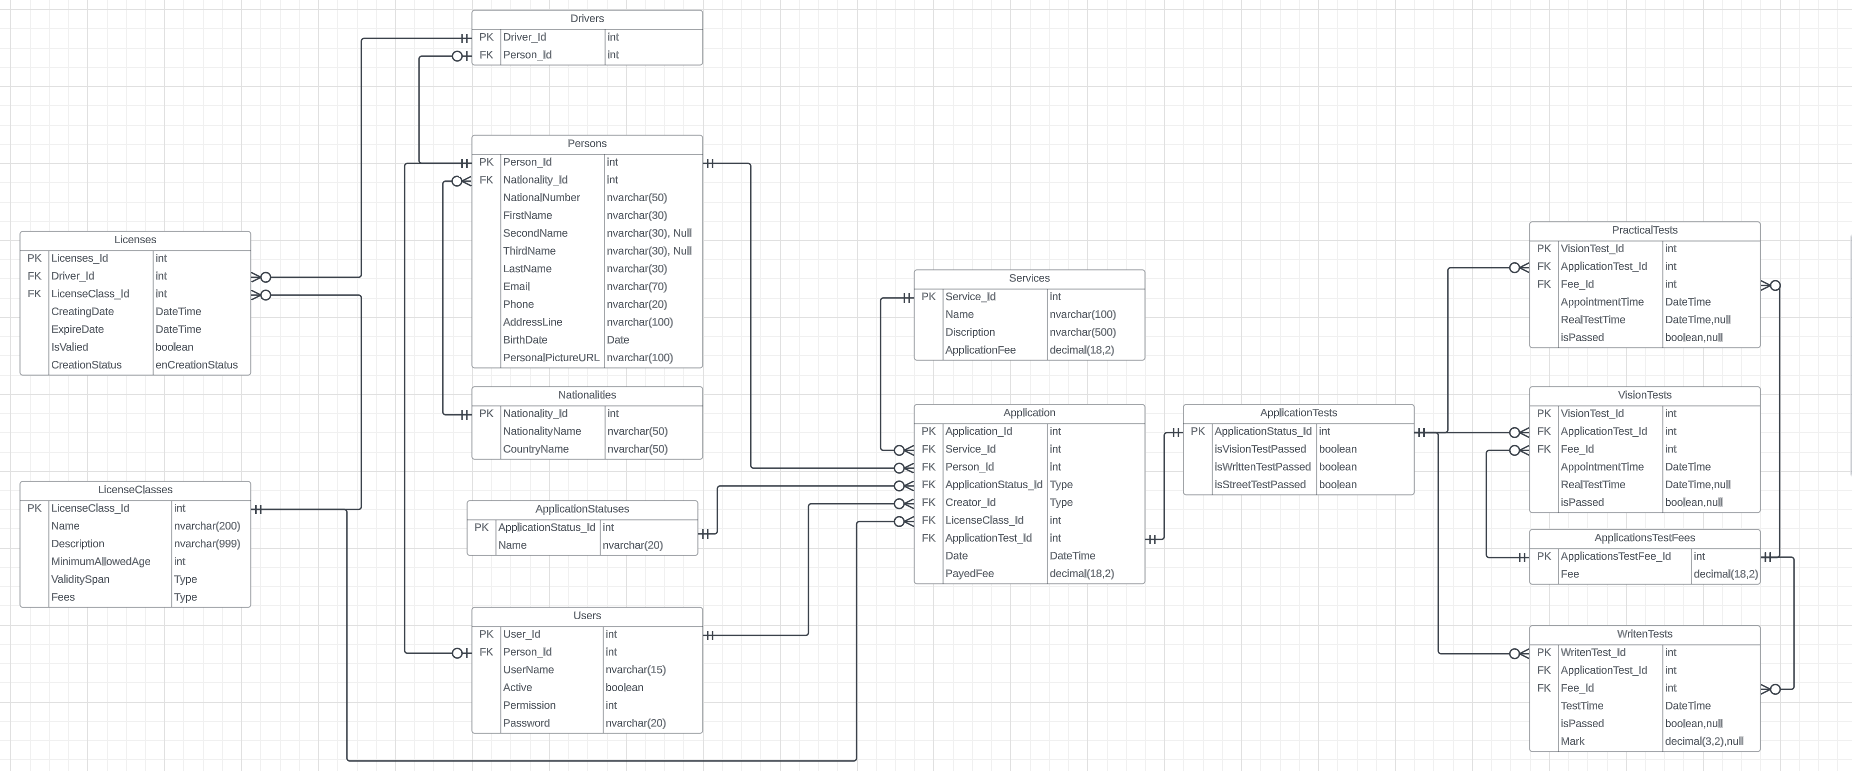
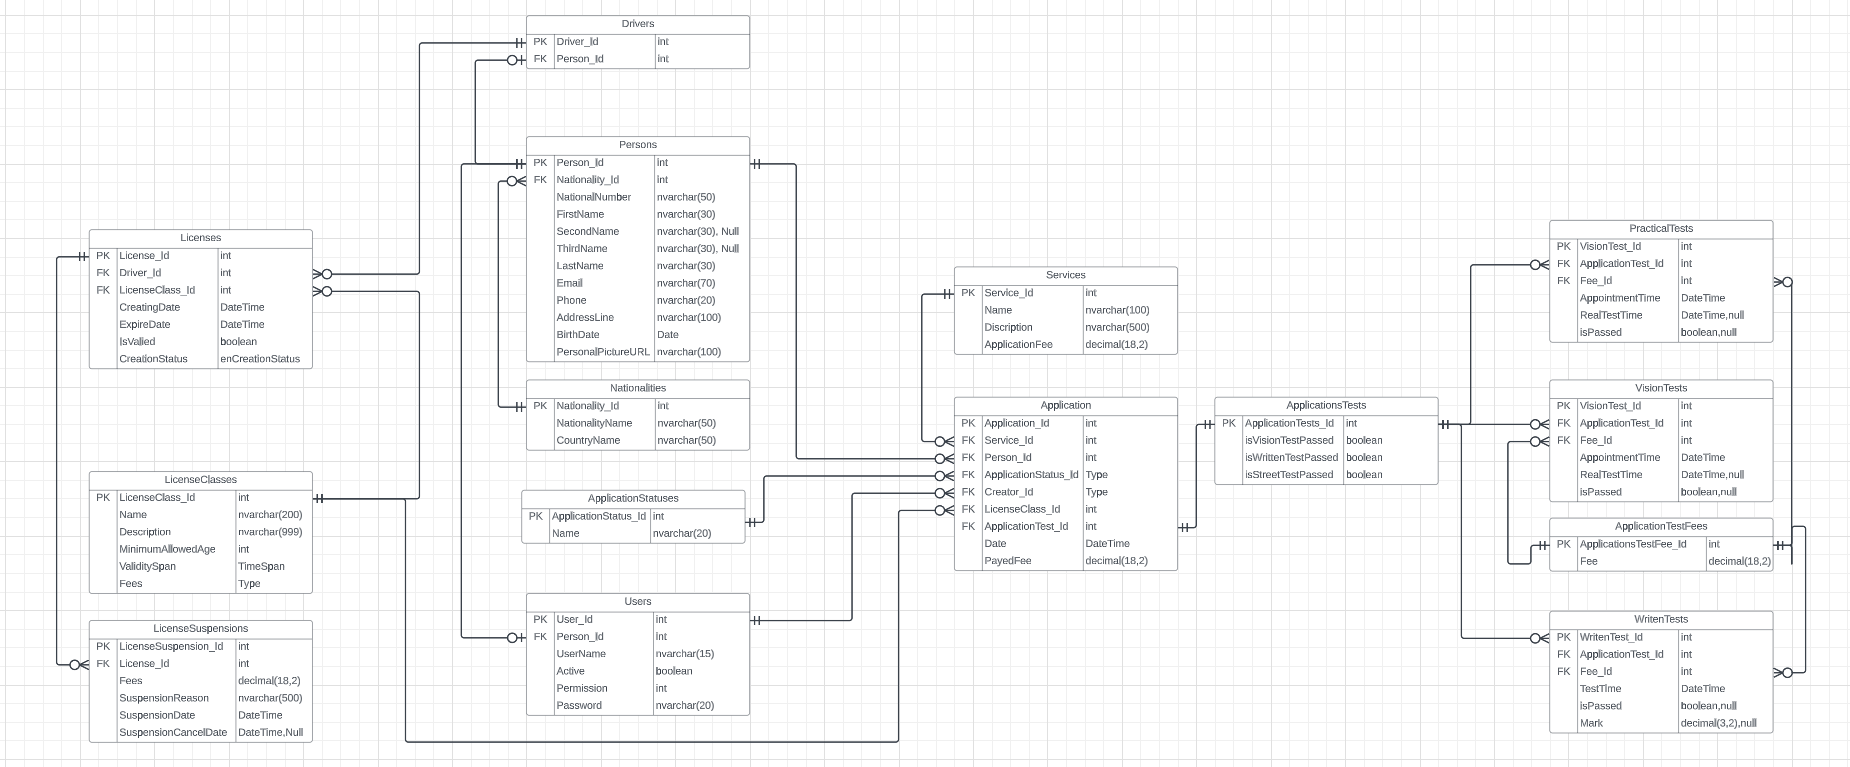
Create LicenseSuspension class and add it to the database

diff --git a/DVLD.DataAccess/Migrations/20231123114250_Add_LicenseSuspension_Table.cs b/DVLD.DataAccess/Migrations/20231123114250_Add_LicenseSuspension_Table.cs
@@ -1,0 +1,50 @@
+using System;
+using Microsoft.EntityFrameworkCore.Migrations;
+
+#nullable disable
+
+namespace DVLD.DataAccess.Migrations
+{
+    /// <inheritdoc />
+    public partial class Add_LicenseSuspension_Table : Migration
+    {
+        /// <inheritdoc />
+        protected override void Up(MigrationBuilder migrationBuilder)
+        {
+            migrationBuilder.CreateTable(
+                name: "LicenseSuspensions",
+                columns: table => new
+                {
+                    LicenseSuspension_Id = table.Column<int>(type: "int", nullable: false)
+                        .Annotation("SqlServer:Identity", "1, 1"),
+                    License_Id = table.Column<int>(type: "int", nullable: false),
+                    Fees = table.Column<decimal>(type: "decimal(18,2)", nullable: false),
+                    SuspensionReason = table.Column<string>(type: "nvarchar(500)", nullable: false),
+                    SuspenstionDate = table.Column<DateTime>(type: "datetime2", nullable: false),
+                    SuspenstionCancelDate = table.Column<DateTime>(type: "datetime2", nullable: true)
+                },
+                constraints: table =>
+                {
+                    table.PrimaryKey("PK_LicenseSuspensions", x => x.LicenseSuspension_Id);
+                    table.ForeignKey(
+                        name: "FK_LicenseSuspensions_Licenses_License_Id",
+                        column: x => x.License_Id,
+                        principalTable: "Licenses",
+                        principalColumn: "License_Id",
+                        onDelete: ReferentialAction.Cascade);
+                });
+
+            migrationBuilder.CreateIndex(
+                name: "IX_LicenseSuspensions_License_Id",
+                table: "LicenseSuspensions",
+                column: "License_Id");
+        }
+
+        /// <inheritdoc />
+        protected override void Down(MigrationBuilder migrationBuilder)
+        {
+            migrationBuilder.DropTable(
+                name: "LicenseSuspensions");
+        }
+    }
+}

diff --git a/DVLD.DataAccess/EntityFramworkDataLayer/Entities/License/LicenseSuspension.cs b/DVLD.DataAccess/EntityFramworkDataLayer/Entities/License/LicenseSuspension.cs
@@ -1,0 +1,35 @@
+using System;
+using System.Collections.Generic;
+using System.ComponentModel.DataAnnotations;
+using System.ComponentModel.DataAnnotations.Schema;
+using System.Linq;
+using System.Text;
+using System.Threading.Tasks;
+
+namespace DVLD.DataAccess.EntityFramworkDataLayer.Entities.License
+{
+    public class LicenseSuspension
+    {
+
+        [Key]
+        [Column(nameof(LicenseSuspension_Id))]
+        public int LicenseSuspension_Id { get; set; }
+
+        [ForeignKey("License")]
+        [Column(nameof(License_Id))]
+        public int License_Id { get; set; }
+        public License License { get; set; } = null!;
+
+        [Column(TypeName ="decimal(18,2)")]
+        public decimal Fees { get; set; }
+
+        [Column(TypeName = "nvarchar(500)")]
+        [MinLength(1)]
+        public string SuspensionReason { get; set; } = string.Empty;
+
+        public DateTime SuspenstionDate { get; set; }
+
+        public DateTime? SuspenstionCancelDate { get; set; } = null;
+
+    }
+}

diff --git a/DVLD.DataAccess/Migrations/20231123114250_Add_LicenseSuspension_Table.Designer.cs b/DVLD.DataAccess/Migrations/20231123114250_Add_LicenseSuspension_Table.Designer.cs
@@ -4,6 +4,7 @@ using DVLD.DataAccess.EntityFramworkDataLayer.Data;
 using Microsoft.EntityFrameworkCore;
 using Microsoft.EntityFrameworkCore.Infrastructure;
 using Microsoft.EntityFrameworkCore.Metadata;
+using Microsoft.EntityFrameworkCore.Migrations;
 using Microsoft.EntityFrameworkCore.Storage.ValueConversion;
 
 #nullable disable
@@ -11,9 +12,11 @@ using Microsoft.EntityFrameworkCore.Storage.ValueConversion;
 namespace DVLD.DataAccess.Migrations
 {
     [DbContext(typeof(dbContextDVLD))]
-    partial class dbContextDVLDModelSnapshot : ModelSnapshot
+    [Migration("20231123114250_Add_LicenseSuspension_Table")]
+    partial class Add_LicenseSuspension_Table
     {
-        protected override void BuildModel(ModelBuilder modelBuilder)
+        /// <inheritdoc />
+        protected override void BuildTargetModel(ModelBuilder modelBuilder)
         {
 #pragma warning disable 612, 618
             modelBuilder

diff --git a/DVLD.DataAccess/obj/Debug/net8.0/DVLD.DataAccess.AssemblyInfo.cs b/DVLD.DataAccess/obj/Debug/net8.0/DVLD.DataAccess.AssemblyInfo.cs
@@ -14,7 +14,7 @@ using System.Reflection;
 [assembly: System.Reflection.AssemblyCompanyAttribute("DVLD.DataAccess")]
 [assembly: System.Reflection.AssemblyConfigurationAttribute("Debug")]
 [assembly: System.Reflection.AssemblyFileVersionAttribute("1.0.0.0")]
-[assembly: System.Reflection.AssemblyInformationalVersionAttribute("1.0.0+5cdf329c4c67119e65ceca853aa25a0e57a99ecf")]
+[assembly: System.Reflection.AssemblyInformationalVersionAttribute("1.0.0+25b4df345a3d17b10765902e660af0a53b778f1a")]
 [assembly: System.Reflection.AssemblyProductAttribute("DVLD.DataAccess")]
 [assembly: System.Reflection.AssemblyTitleAttribute("DVLD.DataAccess")]
 [assembly: System.Reflection.AssemblyVersionAttribute("1.0.0.0")]

diff --git a/DVLD.DataAccess/EntityFramworkDataLayer/Data/dbContextDVLD.cs b/DVLD.DataAccess/EntityFramworkDataLayer/Data/dbContextDVLD.cs
@@ -22,6 +22,7 @@ namespace DVLD.DataAccess.EntityFramworkDataLayer.Data
         public DbSet<Driver> Drivers { get; set; } = null!;
         public DbSet<Nationality> Nationalities { get; set; } = null!;
         public DbSet<Person> Persons { get; set; } = null!;
+        public DbSet<LicenseSuspension> LicenseSuspensions { get; set; } = null!;
 
         private readonly string ConnectionString = "Data Source=.;Initial Catalog=DVLD_db;User Id=DESKTOP-OCJUBFL\\houda;Password=sa123456;Encrypt=false;Trusted_Connection=Yes;";
         protected override void OnConfiguring(DbContextOptionsBuilder optionsBuilder)
